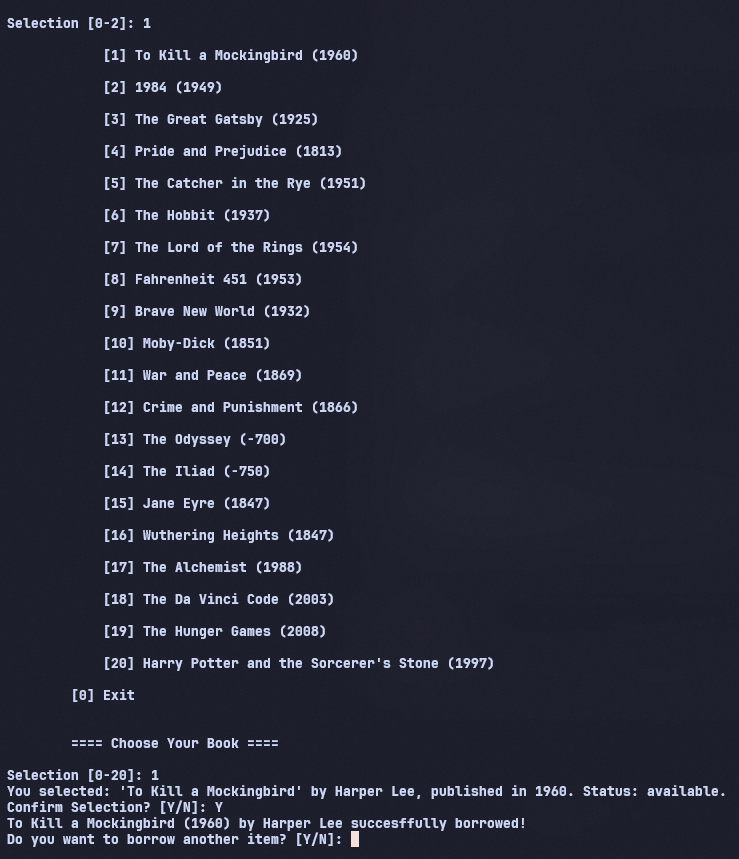
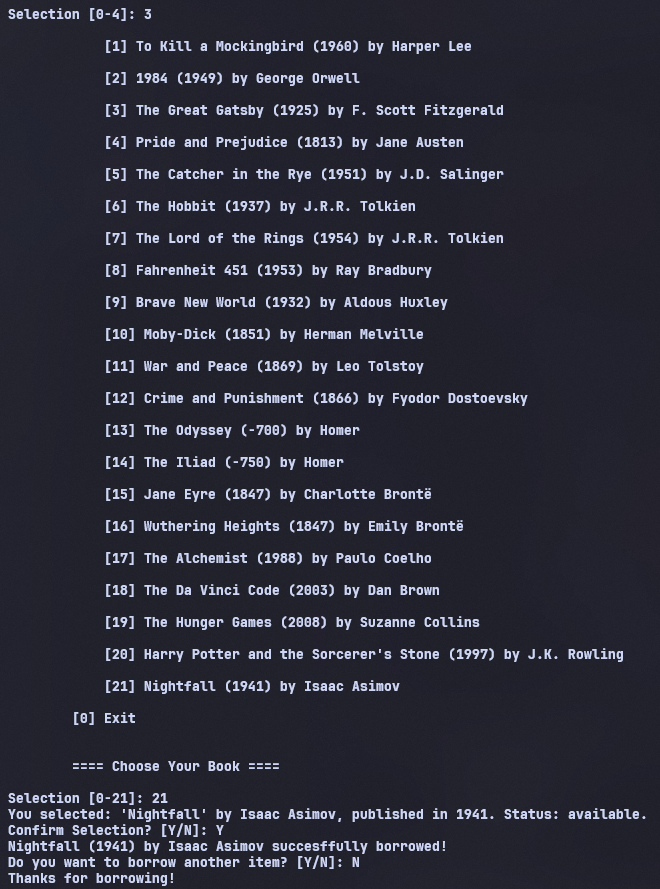
fixed bugs and inconsistencies

diff --git a/LBMS.py b/LBMS.py
@@ -44,7 +44,7 @@ class LBMS:
         print()
         for key, book in self.books.items():
             print(f"""\
-            [{key}] {book.get_title()} ({book.get_yearPublished()} by {book.get_author})
+            [{key}] {book.get_title()} ({book.get_yearPublished()}) by {book.get_author()}
             """)
 
         print(f"""\
@@ -87,16 +87,16 @@ class LBMS:
         while(True): 
 
             try:
-                selection = int(input("Selection [0-20]: "))
+                selection = int(input(f"Selection [0-{len(self.books)}]: "))
 
                 if(selection == 0):
                     break
 
                 if(selection < 0):
-                    print("Invalid Selection! Please type a valid umber [0-20]")
+                    print(f"Invalid Selection! Please type a valid number [0-{len(self.books)}]")
 
-                if(selection >= len(self.books)):
-                    print("Selection exceeded! Only type positive number [0-20]")
+                if(selection > len(self.books)):
+                    print(f"Selection exceeded! Only type positive number [0-{len(self.books)}]")
                    
                 print(f"You selected: {self.books[selection].display_info()}")
                 confirmation = input("Confirm Selection? [Y/N]: ")
@@ -191,6 +191,7 @@ class LBMS:
             confirmation = input(f"You wish to add: {book_title} ({publication_year}) by {book_author}. Confirm? [Y/N]: ")
             if(confirmation == "Y" or confirmation == "y"):
                 self.books[len(self.books) + 1] = Book(book_title, book_author, publication_year)
+                print(f"Succesffully added {book_title} ({publication_year}) by {book_author} ")
             else:
                 print("Goodbye!")
 
@@ -258,13 +259,13 @@ class LBMS:
             """)
 
             try:
-                selection = int(input("Selection [0-2]: "))
+                selection = int(input("Selection [0-4]: "))
 
                 if(selection < 0):
-                    print("Invalid Selection! Please type a valid selection [0-2]")
+                    print("Invalid Selection! Please type a valid selection [0-4]")
                     
-                if(selection > 2):
-                    print("Selection exceeded! Please type a valid selection [0-2]")
+                if(selection > 4):
+                    print("Selection exceeded! Please type a valid selection [0-4]")
                 
                 
                 if(selection == 1):
@@ -274,10 +275,10 @@ class LBMS:
                     self._show_books()
                 
                 if(selection == 3):
-                    self._borrow_book
+                    self._borrow_book()
                 
                 if(selection == 4):
-                    self._return_book
+                    self._return_book()
                     
                 if(selection == 0):
                     print("Goodbye! Thanks for coming!")

diff --git a/README.md b/README.md
@@ -67,9 +67,11 @@ Manages the library system:
 2. Select an option from the main menu:
 
    ```
-   [1] Borrow a Book
-   [2] Return a Book
-   [0] Exit
+  [1] Add a Book
+  [2] Show Books
+  [3] Borrow a Book
+  [4] Return a Book
+  [0] Exit
    ```
 3. Follow prompts to borrow or return books.
 4. The system shows the current list of books and their availability before performing any action.
@@ -83,9 +85,14 @@ Manages the library system:
 
 ![Main Menu](images/Main%20Menu.png)
 
-![Return Menu](images/Return%20Menu.png)
+![Add Book](images/Add%20a%20book.png)
+
+![Show books](images/show%20books.png)
 
 ![Borrow Menu](images/Borrow%20Menu.png)
+
+![Return Menu](images/Return%20Menu.png)
+
 
 
 
